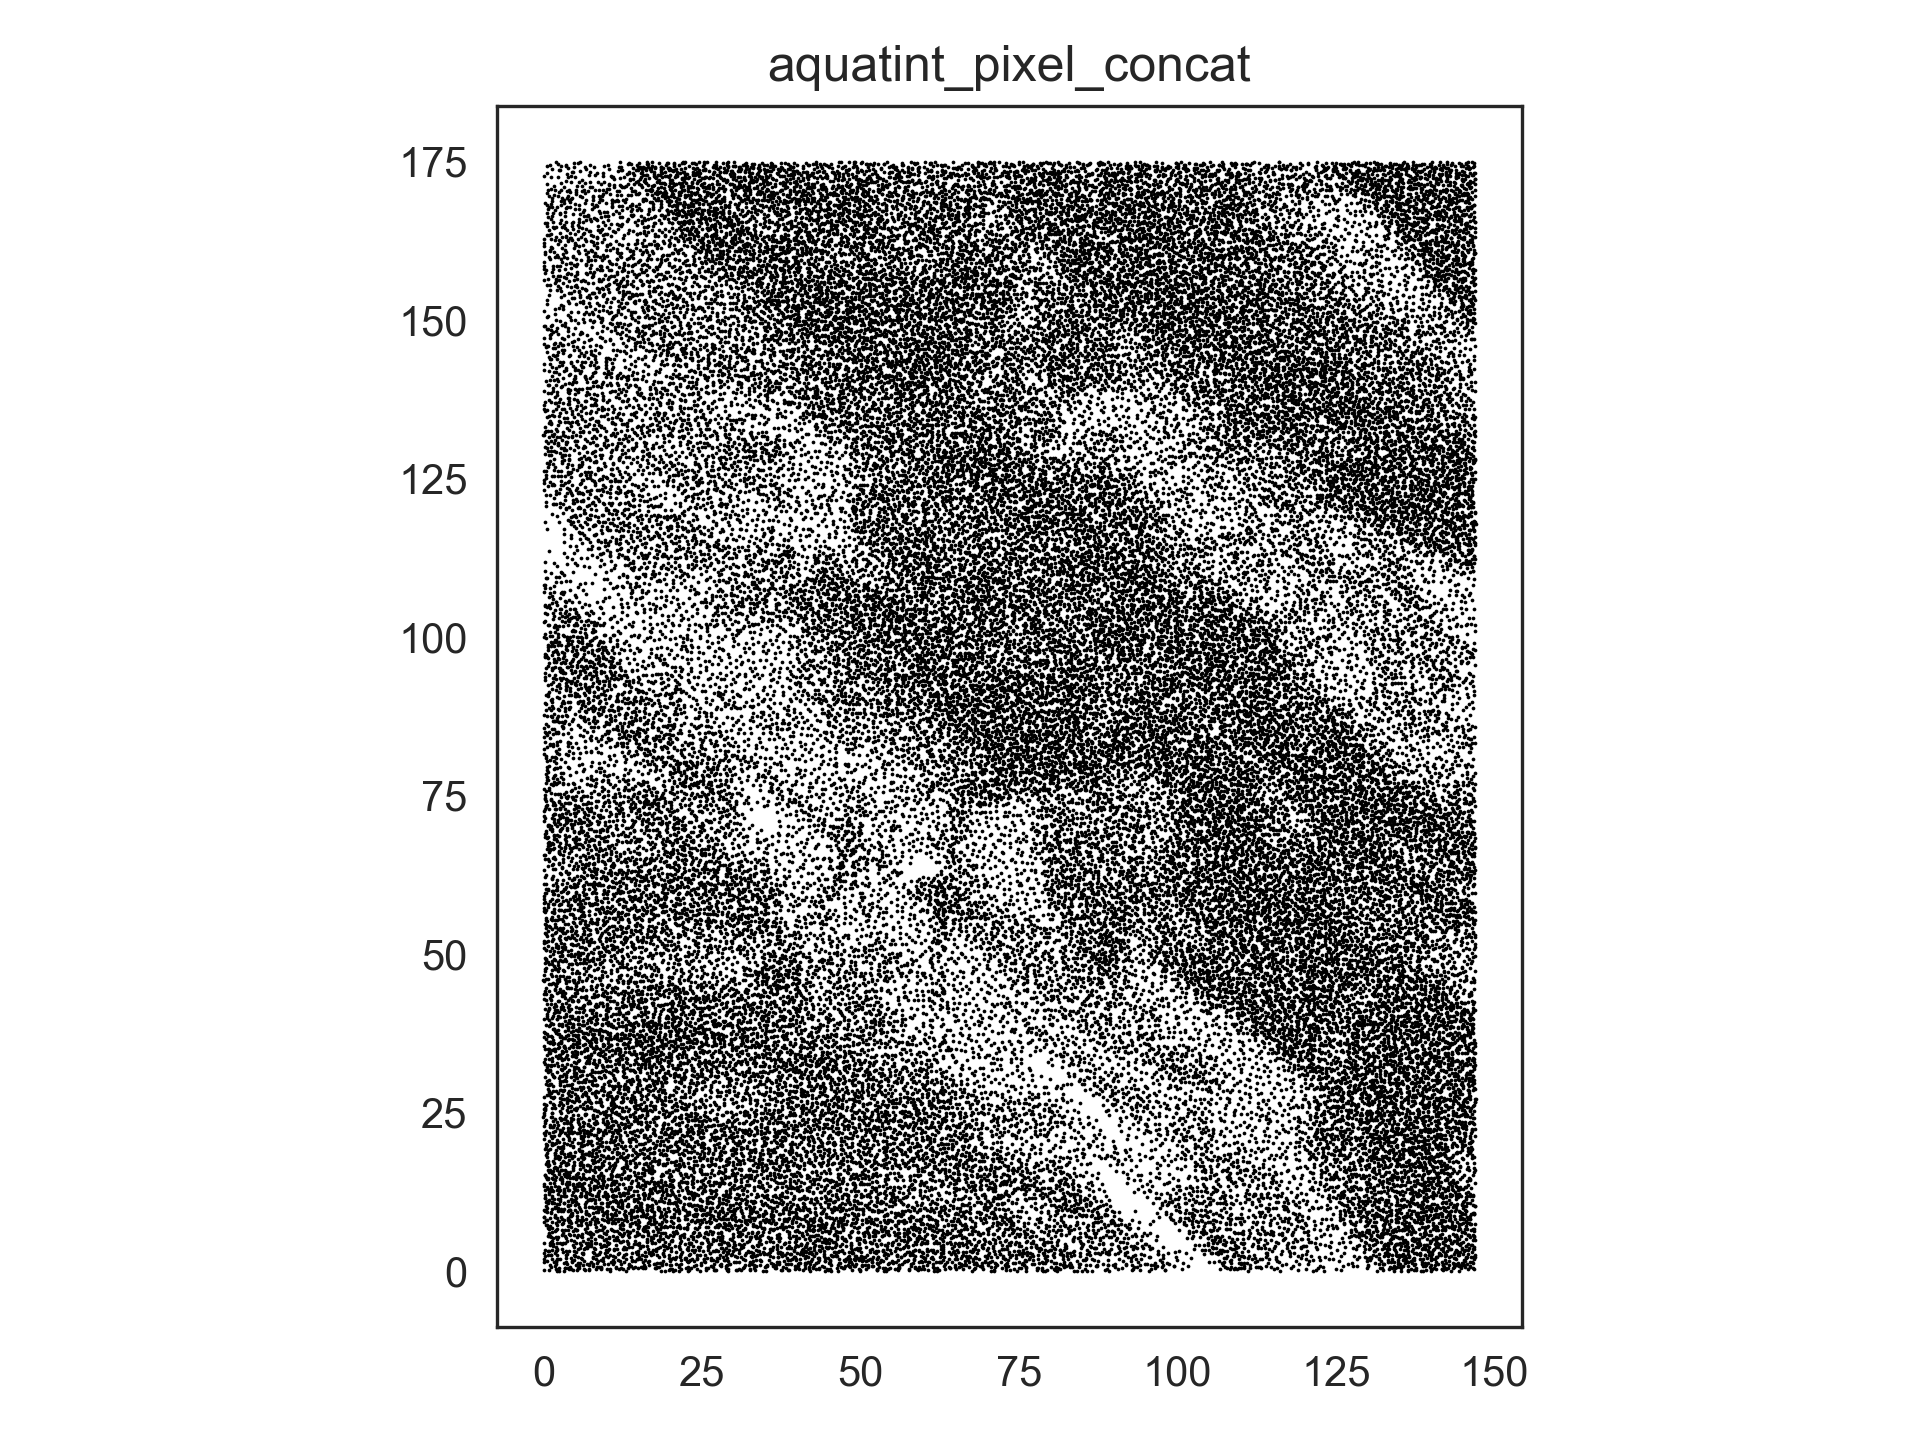
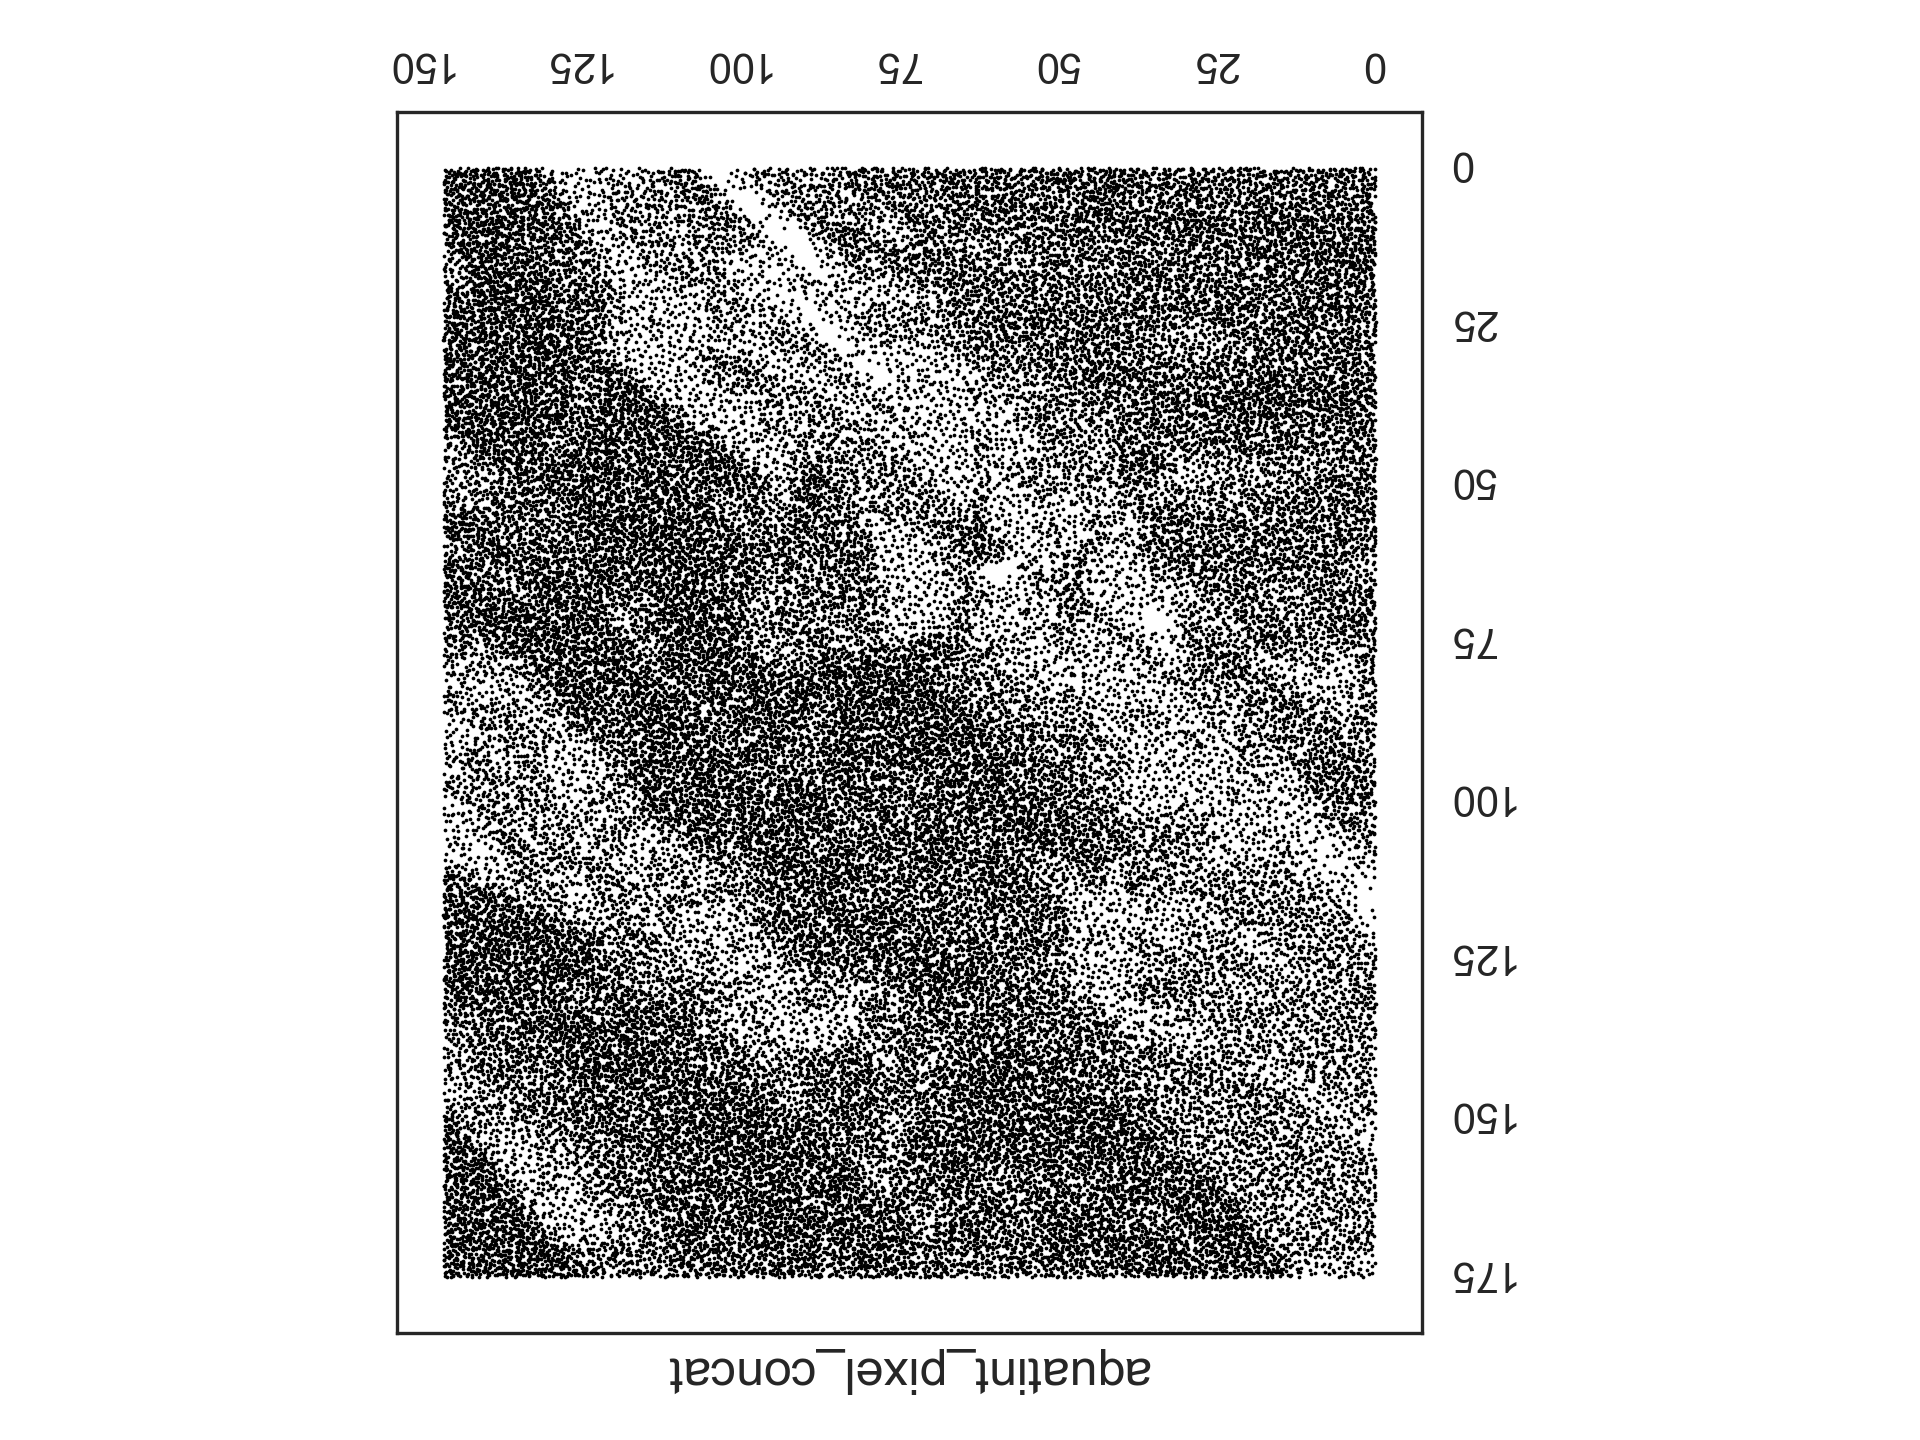
Done carving. What a nightmare

diff --git a/src/aquatint_classes/programmatic_svg.py b/src/aquatint_classes/programmatic_svg.py
@@ -87,19 +87,18 @@ class ProgrammaticSvgManipulator:
             self.ad.connect()
             self.ad.options.model = 5
             self.ad.options.units = self.units
+
+            self.ad.options.speed_pendown = 110  # default 25
+            self.ad.options.speed_penup = 110  # default 25
+
             # fine sharpie settings
             # self.ad.options.pen_pos_up = 65 #default 60
-            # self.ad.options.pen_pos_down = 5 #default 40
-
-            # xl sharpie settings, sharpie sitting on cap ledge
-            # self.ad.options.speed_pendown = 55  # default 25
-            # self.ad.options.pen_pos_up = 100
-            # self.ad.options.pen_pos_down = 40
-
-            # paint marker for acetate positive settings
-            self.ad.options.speed_pendown = 55  # default 25
-            self.ad.options.pen_pos_up = 100
+            self.ad.options.pen_pos_up = 60 #default 60
             self.ad.options.pen_pos_down = 40
+            # self.ad.options.pen_pos_down = 38
+            # self.ad.options.pen_pos_down = 32
+
+            
 
             self.ad.update()
         except Exception as e:
@@ -156,6 +155,9 @@ class ProgrammaticSvgManipulator:
                     [xy[1] + of, xy[0] + of],
                     [xy[1], xy[0] + of],
                     [xy[1], xy[0]],
+                    [xy[1] + of, xy[0] + of],
+                    [xy[1] + of, xy[0]],
+                    [xy[1], xy[0] + of],
                 ]
             )
             return
@@ -240,17 +242,20 @@ class ProgrammaticSvgManipulator:
         self.ad.moveto(self.starting_origin[0], self.starting_origin[1])
         # of = 0.025
         # of = 0.01 # first baren test
-        of = 0.02
+        of = 0.04
+        # of = 0.03
         # Draw xy points
         try:
             xy_current_pos = self.ad.current_pos()
-            # offset_xy = list(reversed(self.add_current_pos_to_path(xy_current_pos)))
-            offset_xy = list((self.add_current_pos_to_path(xy_current_pos)))
+            offset_xy = list(reversed(self.add_current_pos_to_path(xy_current_pos)))
+            # offset_xy = list((self.add_current_pos_to_path(xy_current_pos)))[52220:]
             for ii, xy in enumerate(offset_xy):
-                self.ad.moveto(xy[1], xy[0])
-                # self.ad.pendown()
-                self.draw_manual_circle(xy, of)
-                # self.ad.penup()
+                # if xy[0]>=0.73:
+                if xy[0]>=10.6:
+                    self.ad.moveto(xy[1], xy[0])
+                    # self.ad.pendown()
+                    self.draw_manual_circle(xy, of)
+                    # self.ad.penup()
                 not (ii % 100) and self.cls_log(f"XY progress {ii} / {len(offset_xy)}")
             self.cls_log("Done")
             self.print_position()
